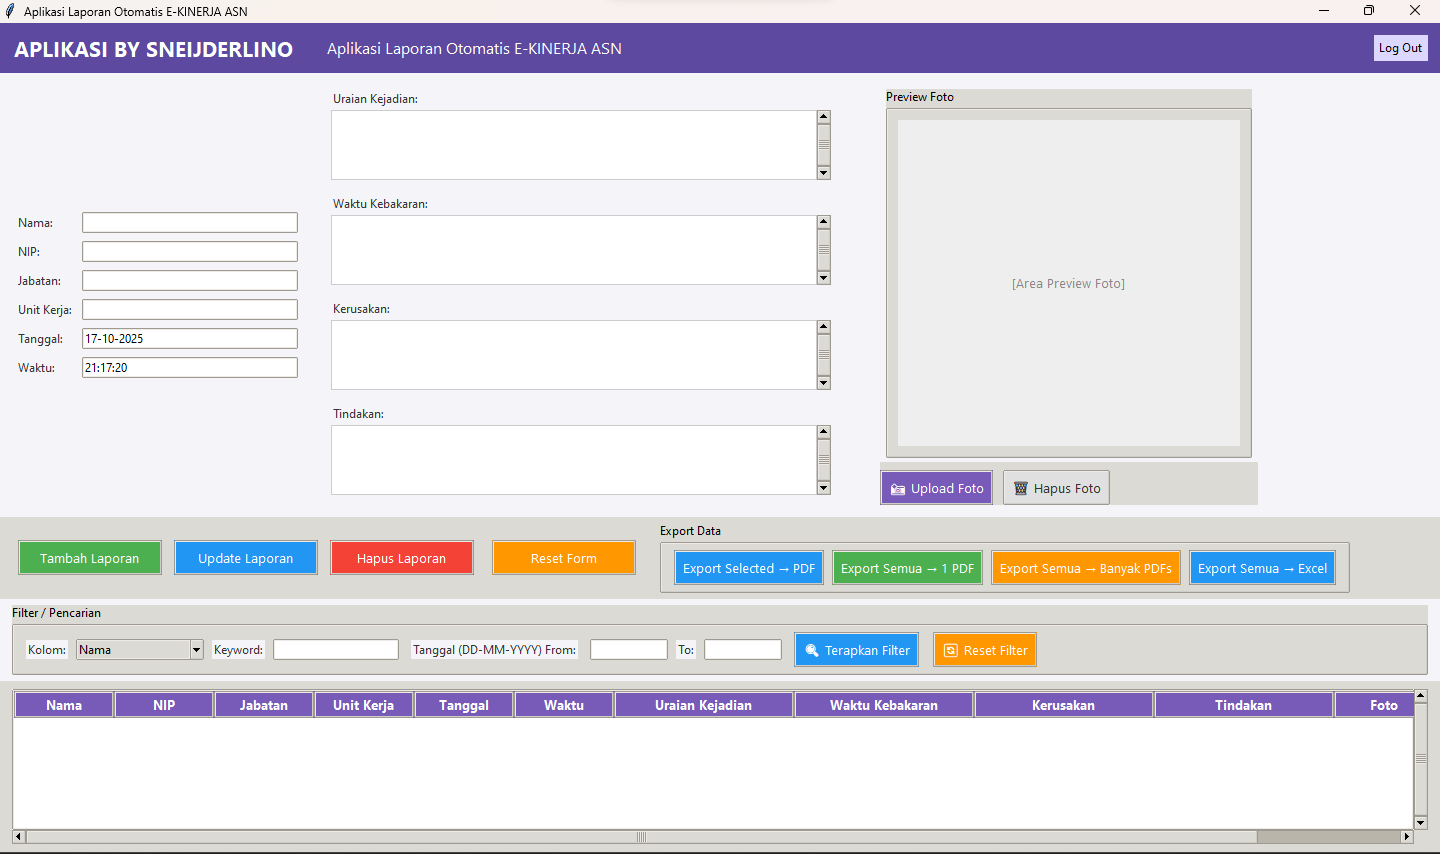
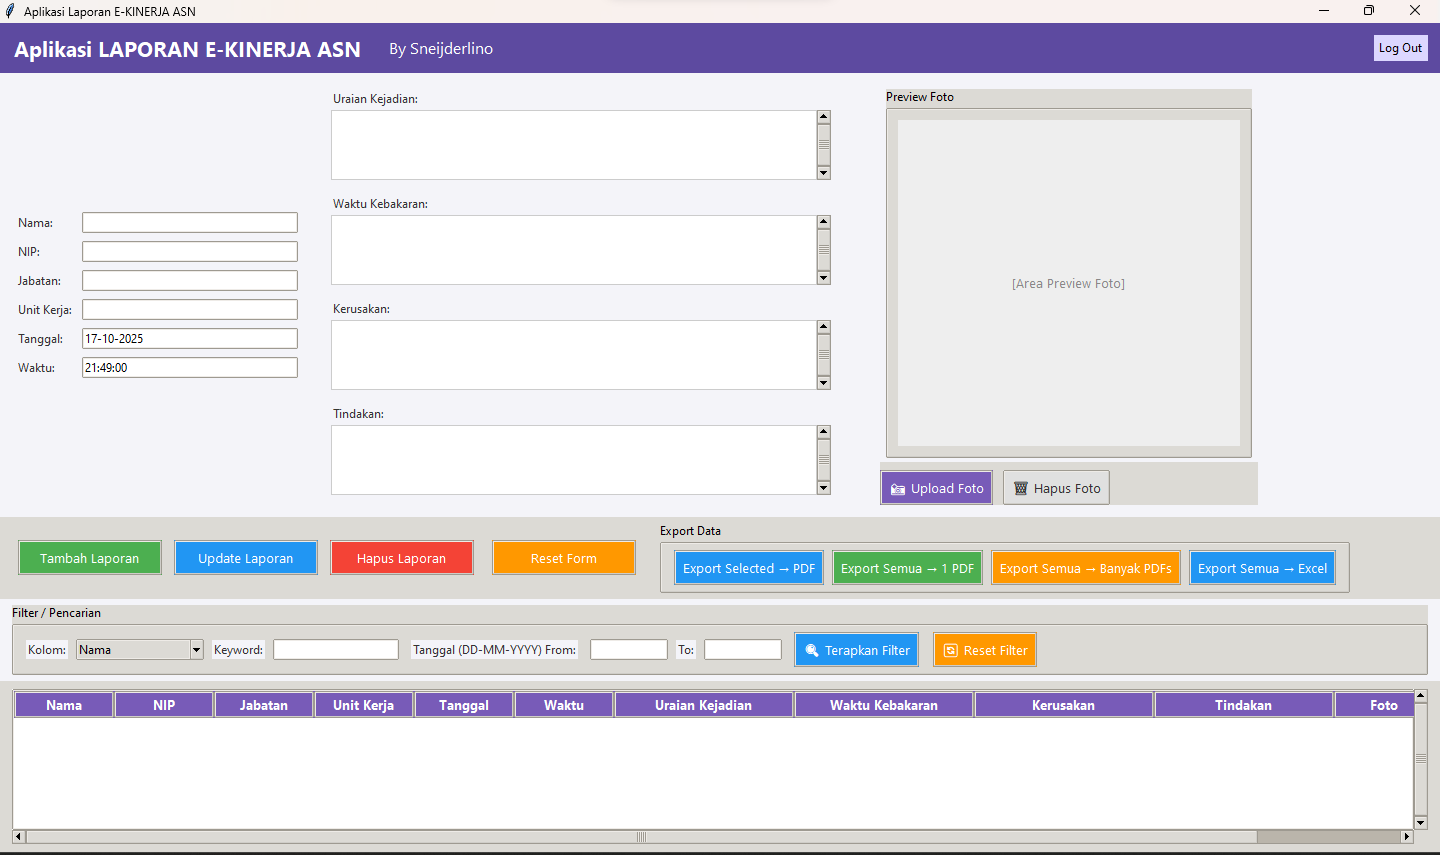
Update: perbaikan fitur

diff --git a/main.py b/main.py
@@ -26,7 +26,7 @@ from utils import (
 class LaporanApp:
     def __init__(self, root):
         self.root = root
-        root.title("Aplikasi Laporan Otomatis E-KINERJA ASN")
+        root.title("Aplikasi Laporan E-KINERJA ASN")
         root.geometry("1280x900")
         self.selected_foto_path = ""
         self.preview_img = None
@@ -75,8 +75,8 @@ class LaporanApp:
         # Header
         header = ttk.Frame(self.root, style="Header.TFrame", height=56)
         header.pack(fill="x")
-        ttk.Label(header, text="APLIKASI BY SNEIJDERLINO ", style="Header.TLabel").pack(side="left", padx=12, pady=8)
-        ttk.Label(header, text="Aplikasi Laporan Otomatis E-KINERJA ASN", style="SubHeader.TLabel").pack(side="left", padx=12)
+        ttk.Label(header, text="Aplikasi LAPORAN E-KINERJA ASN", style="Header.TLabel").pack(side="left", padx=12, pady=8)
+        ttk.Label(header, text="By Sneijderlino", style="SubHeader.TLabel").pack(side="left", padx=12)
         btn_logout = tk.Button(header, text="Log Out", bg="#DCD7FF", relief="flat", command=self.on_logout)
         btn_logout.pack(side="right", padx=12, pady=8)
         style_button_hover(btn_logout, normal_bg="#DCD7FF", hover_bg="#E9E6FF", active_bg="#C0B5FF")

diff --git a/README.md b/README.md
@@ -2,17 +2,17 @@
   <img src="/img/Walpaper.png" alt="" width="900"/>
 </p>
 
-# 🏢 APLIKASI EKINERJA ASN - LAPORAN KEJADIAN
+# 🏢 APLIKASI LAPORAN EKINERJA
 
 [![License](https://img.shields.io/github/license/[USER]/[REPO]?style=for-the-badge&color=2ecc71)](LICENSE)
 [![Python Version](https://img.shields.io/badge/Python-3.8+-3776AB.svg?style=for-the-badge&logo=python)](https://www.python.org/)
 [![OS Support](https://img.shields.io/badge/OS-Windows%20%7C%20Linux%20%7C%20macOS-informational?style=for-the-badge)](https://www.python.org/)
 
-_Aplikasi Desktop Manajemen Laporan Otomatis E-KINERJA ASN Berbasis Python & Tkinter._
+_Aplikasi Desktop Manajemen Laporan Otomatis E-KINERJA Berbasis Python & Tkinter._
 
 ## 🎯 Tujuan Proyek
 
-Aplikasi _Aplikasi Laporan Otomatis E-KINERJA ASN_ dikembangkan untuk memudahkan proses pencatatan, pengelolaan, dan pelaporan data E-KINERJA. Aplikasi ini menyimpan data ASN secara persisten dan mampu mengekspor laporan ke format Excel dan PDF.
+Aplikasi _Aplikasi Laporan E-KINERJA_ dikembangkan untuk memudahkan proses pencatatan, pengelolaan, dan pelaporan data E-KINERJA. Aplikasi ini menyimpan data ASN secara persisten dan mampu mengekspor laporan ke format Excel dan PDF.
 
 ## ✨ Fitur Utama
 
@@ -48,8 +48,8 @@ Aplikasi ini membutuhkan library berikut. Beberapa di antaranya bersifat _opsion
 ### Langkah 1: Klon Repositori
 
 ```bash
-git clone https://github.com/Sneijderlino/Aplikasi---Laporan-Otomatis-E-KINERJA-ASN.git
-cd Laporan-Otomatis-E-KINERJA-ASN
+git clone https://github.com/Sneijderlino/Aplikasi-Laporan-eKINERJA.git
+cd Aplikasi-Laporan-eKINERJA
 ```
 
 ---
@@ -122,4 +122,3 @@ python laporan_app.py
   Dibuat dengan ❤ oleh <a href="https://github.com/Sneijderlino">Sneijderlino</a><br>
   <em>“Code. Create. Conquer.”</em>
 </p>
-
